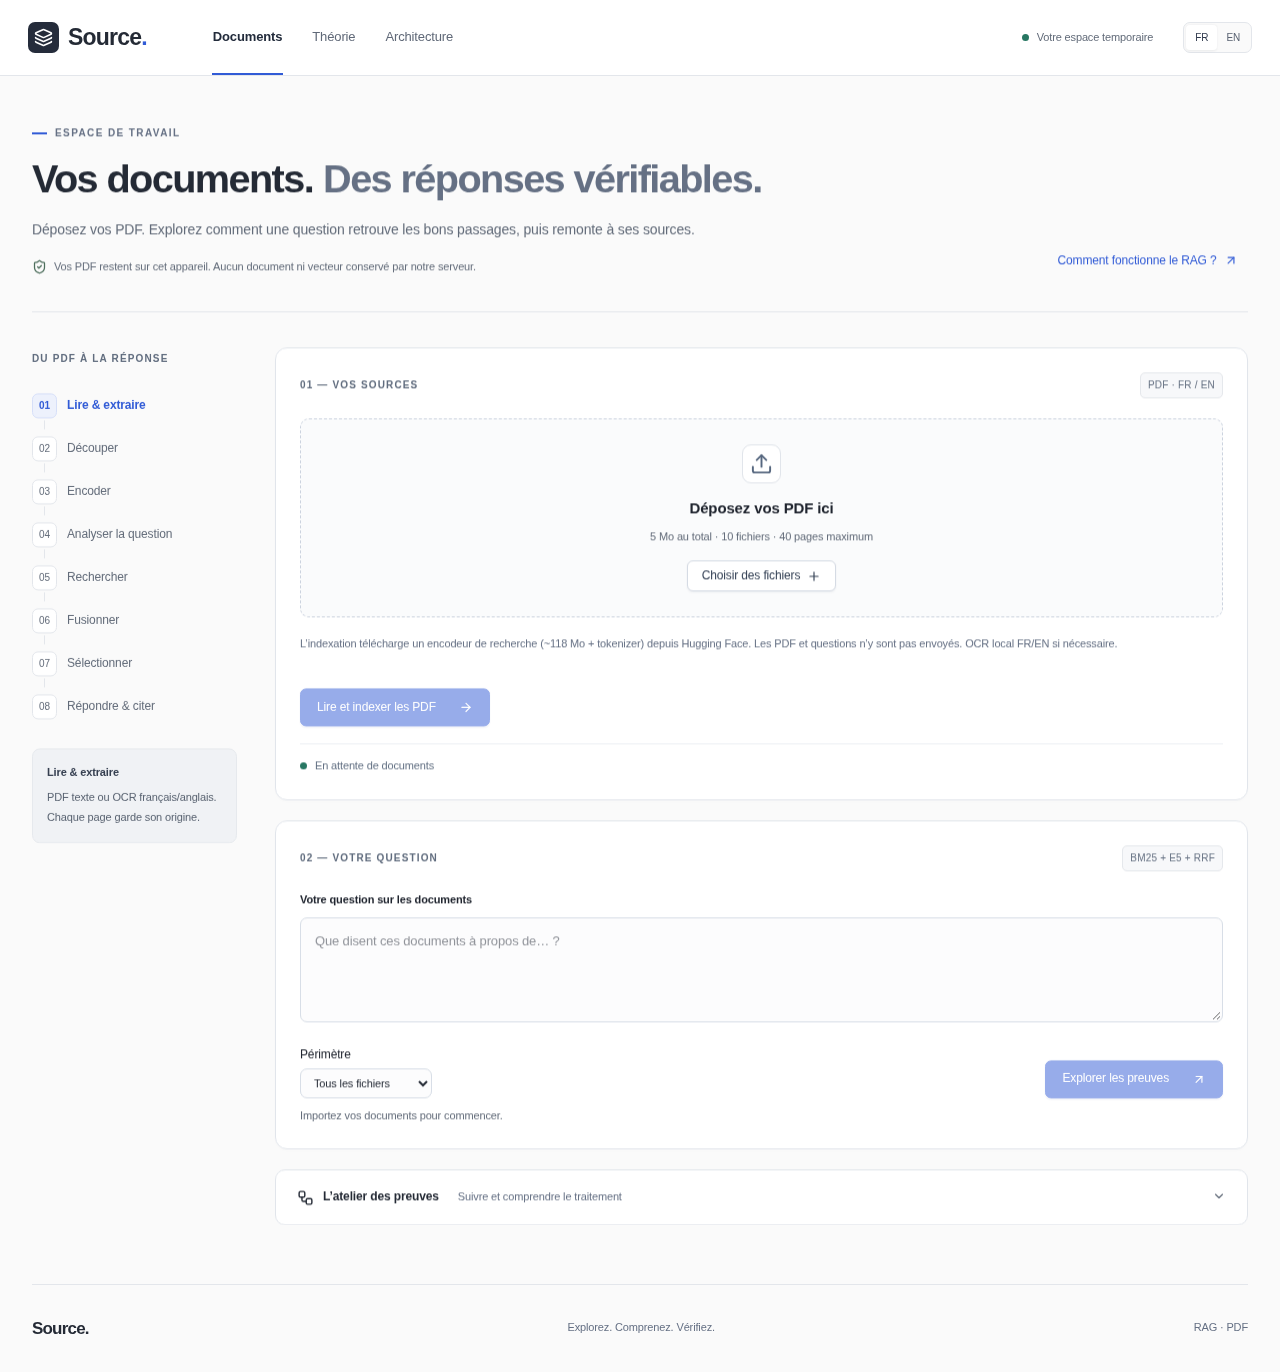
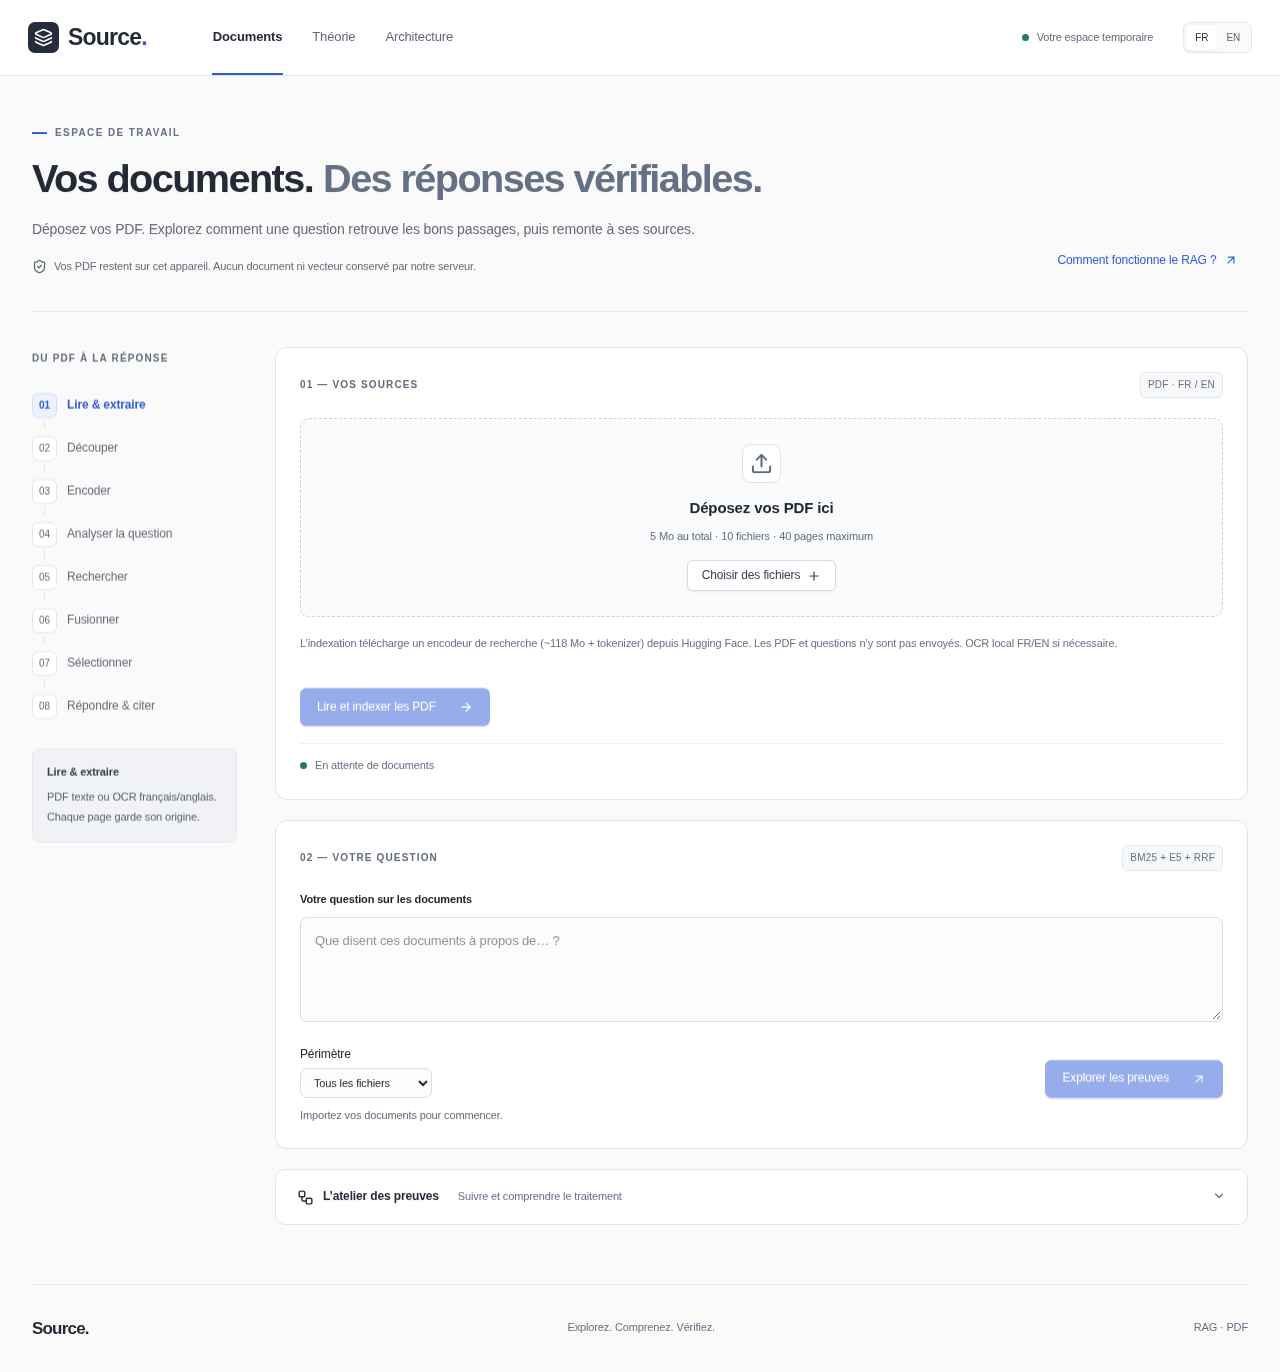
docs: record published shadcn redesign and live provider verification

Changed region(s): [[0.5625, 0.3673, 0.5938, 0.398], [0.25, 0.7653, 0.2812, 0.7959]]

diff --git a/docs/RESUME.md b/docs/RESUME.md
@@ -1,3 +1,42 @@
+# Version publiée — interface shadcn/ui et théorie bilingue
+
+Production READY : `dpl_6Qz2bhAkdVS7B8uH59azzab6BLUR`, source `f0d036b`, main.
+https://lakehouse-rag-lab.vercel.app et `/theory`, `/architecture` répondent 200.
+Les **34 assets publics**, le HTML et la CSP sont identiques au build local testé.
+Le scan Tailwind est explicitement limité à src pour éviter qu’un fichier de build
+ou de test change les utilitaires générés entre local et Vercel.
+
+Nouvelle direction visuelle : typographie sans empattement, palette neutre/bleue,
+hiérarchie plus compacte, composants source officiels shadcn/ui + Radix + Tailwind.
+L’atelier est repliable et s’ouvre pendant le traitement. Les transitions courtes
+respectent la réduction des animations. Théorie et Architecture se chargent à la
+demande sans effacer la session Documents.
+
+L’onglet Théorie FR/EN explique préparation/recherche/génération, propose un exemple
+RH fictif avec trois questions et détaille l’objectif et l’imbrication des technologies.
+L’exemple n’appelle aucun fournisseur et n’invente pas de scores. Il montre aussi
+le refus quand l’information est absente. La licence shadcn/ui est servie sous /licenses.
+
+**24 scénarios navigateur validés** (suite et reprises ciblées après corrections de
+contraste/navigation), **13 tests serveur**, audit dépendances sans vulnérabilité connue.
+Dernière reprise de présentation après scan Tailwind déterministe : 4 cas réussis.
+Les contrôles incluent clavier Radix, accessibilité, FR/EN, absence de débordement,
+réduction des animations, vrais PDF/OCR/E5 et recherche/citations.
+
+Un nouveau parcours réel deux PDF → recherche → consentement → API publique → NVIDIA
+HTTP 200 → citation guide.pdf page 1 a réussi. La limite TLS du Chromium du sandbox
+est documentée dans evidence/refined-ui-live-desktop.json : interface locale identique
+aux assets publics, modèle réel au cache vérifié et relais HTTPS avec TLS vérifié.
+Aucune réponse fournisseur simulée pour cette preuve. Les cas UI simulés restent distincts.
+Statut ready:true, entrée invalide 422, ancienne route opérateur 404. Aucun compteur
+applicatif réintroduit, aucune clé lue/exposée, aucun achat ni changement de plan.
+
+Preuves courantes : evidence/generation-publication-current.json,
+refined-ui-validation.json, refined-ui-live-desktop.json, refined-home-*.png,
+refined-theory-*.png et pdf-screenshots/refined-ui-live-*.
+
+---
+
 # Version publiée — atelier ludique et architecture
 
 Déploiement production READY `dpl_3JB2cWHctBsiM4Z6npPzrufo4C6R`, code `9a3e62d`,
